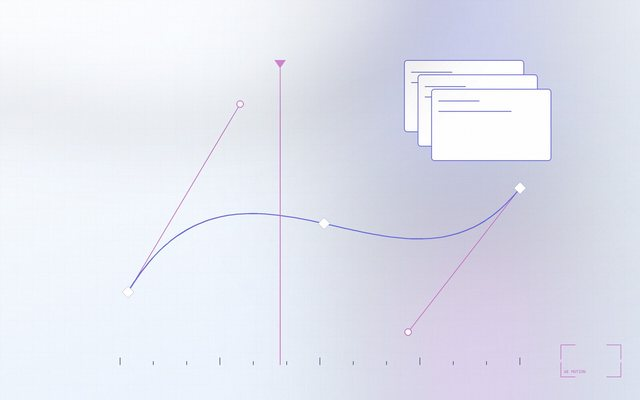
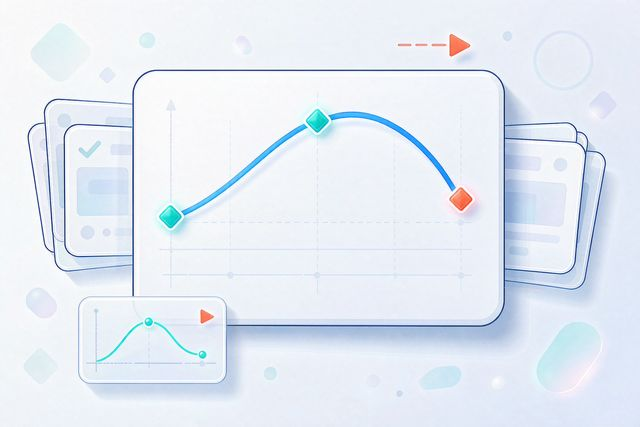
小程序插图 AI 重绘升级：9 张扁平插画去水印入包，映射改为复用分类图

diff --git a/miniprogram/utils/local-media.js b/miniprogram/utils/local-media.js
@@ -1,5 +1,5 @@
 /**
- * 小程序包内插图索引（图片由 tools/sync-miniprogram-media.py 生成）
+ * 小程序包内插图索引（图片由 AI 生成 + tools/mp-media-ai.py 压缩）
  *
  * 为什么需要它：数据库里的 image_url / cover_url 大多是网页端的完整外链
  * （https://guangying-web.app.workbuddy.host/assets/covers/...）。小程序要显示
@@ -36,10 +36,10 @@ const KEYWORDS = [
 ]
 
 const BANNER_IMAGES = [
-  DIR + 'mp-banner-1.jpg',  // 剪辑监视器工作台
-  DIR + 'mp-banner-2.jpg',  // 短视频剪辑
-  DIR + 'mp-banner-3.jpg',  // AI 生成
-  DIR + 'mp-banner-4.jpg'   // 漫剧制作
+  DIR + 'mp-banner-1.jpg',  // 剪辑工作台全景（主视觉）
+  DIR + 'mp-cat-04.jpg',    // 短视频剪辑
+  DIR + 'mp-cat-07.jpg',    // AI 生成
+  DIR + 'mp-cat-08.jpg'     // 漫剧制作
 ]
 
 /** 云端轮播文案 → 同主题插画，避免「摄影师文案配 AI 节点图」这类错配 */
@@ -61,7 +61,7 @@ function categoryImage(no) {
 }
 
 function squareImage(no) {
-  return DIR + 'mp-sq-' + pad(no) + '.jpg'
+  return categoryImage(no)
 }
 
 /** 稳定兜底：同一个服务每次都拿到同一张图，不会乱跳 */

diff --git a/tools/erase-watermarks.py b/tools/erase-watermarks.py
@@ -1,0 +1,111 @@
+# -*- coding: utf-8 -*-
+"""批量提交去水印任务（buddy-image-processing erase），提交后统一轮询状态。
+用法：python tools/erase-watermarks.py
+输入：assets/ai-covers/*.png
+输出：assets/ai-covers/noWM/<原名>.png
+"""
+import glob
+import json
+import os
+import subprocess
+import sys
+import time
+
+SKILL = r"D:\下载\WorkBuddy\resources\app.asar.unpacked\resources\plugins\workbuddy-builtin\skills\buddy-image-processing\scripts\buddy-image-processing.py"
+SRC_DIR = "assets/ai-covers"
+OUT_DIR = os.path.join(SRC_DIR, "noWM")
+PROMPT = "Remove the watermark text in the bottom-right corner"
+
+os.makedirs(OUT_DIR, exist_ok=True)
+
+
+def run(args, timeout=120):
+    p = subprocess.run(args, capture_output=True, text=True, encoding="utf-8", errors="replace", timeout=timeout)
+    return p.returncode, (p.stdout or "") + (p.stderr or "")
+
+
+def submit(f, token):
+    rc, out = run([sys.executable, SKILL, "image-edit", "--operation", "erase",
+                   "--image-file", os.path.abspath(f), "--prompt", PROMPT,
+                   "--no-poll", "--token", token], timeout=180)
+    m = None
+    for line in out.splitlines():
+        line = line.strip()
+        if "task" in line.lower() and ("id" in line.lower() or line.startswith("{")):
+            m = line
+    # 尝试从 JSON 里解析 task_id
+    tid = None
+    i = out.find("{")
+    while i != -1:
+        try:
+            j = json.loads(out[i:out.find("}", i) + 1])
+            tid = j.get("task_id") or j.get("taskId") or (j.get("data") or {}).get("task_id")
+            if tid:
+                break
+        except Exception:
+            pass
+        i = out.find("{", i + 1)
+    print("SUBMIT", os.path.basename(f)[:24], "rc=", rc, "task=", tid)
+    if not tid:
+        print("  RAW:", out[-600:])
+    return tid
+
+
+def status(tid, token):
+    rc, out = run([sys.executable, SKILL, "status", tid, "--token", token], timeout=60)
+    st, path = "unknown", None
+    i = out.find("{")
+    while i != -1:
+        try:
+            j = json.loads(out[i:out.rfind("}", i) + 1])
+            break
+        except Exception:
+            i = out.find("{", i + 1)
+    else:
+        j = {}
+    try:
+        data = j.get("data") or j
+        st = data.get("status") or data.get("state") or "unknown"
+        rf = data.get("result_files") or data.get("resultFiles") or []
+        if rf and isinstance(rf, list):
+            path = rf[0].get("path") or rf[0].get("localPath")
+    except Exception:
+        pass
+    return st, path, out
+
+
+def main():
+    # token 从环境变量取，避免写死在仓库里
+    token = os.environ.get("WB_TEMP_TOKEN") or (sys.argv[1] if len(sys.argv) > 1 else "")
+    if not token:
+        print("need token")
+        sys.exit(2)
+    files = sorted(glob.glob(os.path.join(SRC_DIR, "*.png")))
+    tasks = {}
+    for f in files:
+        tid = submit(f, token)
+        if tid:
+            tasks[tid] = f
+    print("submitted", len(tasks), "of", len(files))
+    deadline = time.time() + 900
+    done = {}
+    while tasks and time.time() < deadline:
+        time.sleep(10)
+        for tid in list(tasks):
+            st, path, raw = status(tid, token)
+            print("STATUS", tid, st, flush=True)
+            if st in ("completed", "success", "succeeded", "done"):
+                done[tasks[tid]] = path
+                del tasks[tid]
+            elif st in ("failed", "error", "cancelled"):
+                print("  FAILED raw:", raw[-400:])
+                del tasks[tid]
+    print("=== RESULT ===")
+    for f, p in done.items():
+        print("DONE", os.path.basename(f)[:40], "->", p)
+    if tasks:
+        print("STILL PENDING:", list(tasks))
+
+
+if __name__ == "__main__":
+    main()

diff --git a/tools/mp-media-ai.py b/tools/mp-media-ai.py
@@ -1,0 +1,68 @@
+# -*- coding: utf-8 -*-
+"""把 AI 生成（已去水印）的插画转换成小程序包内图。
+用法：python tools/mp-media-ai.py
+来源：项目根目录 processed_image_*_<taskid前8位>_1.png
+输出：miniprogram/assets/covers/mp-cat-0N.jpg / mp-banner-1.jpg / mp-hero.jpg
+同时删除不再使用的 mp-sq-*.jpg、mp-banner-2..4.jpg。
+"""
+import glob
+import os
+import sys
+
+from PIL import Image
+
+ROOT = os.path.dirname(os.path.dirname(os.path.abspath(__file__)))
+SRC = ROOT
+OUT = os.path.join(ROOT, "miniprogram", "assets", "covers")
+
+# task id 前 8 位 → 输出文件（16:10 卡片用 3:2 源，aspectFill 自动裁切）
+JOBS = {
+    "2e8a93e6": [("mp-cat-01.jpg", (640, 427))],
+    "37d4affe": [("mp-cat-02.jpg", (640, 427))],
+    "7d2c7166": [("mp-cat-03.jpg", (640, 427))],
+    "fd0ce838": [("mp-cat-04.jpg", (640, 427))],
+    "8ab6d3cf": [("mp-cat-05.jpg", (640, 427))],
+    "1f676fab": [("mp-cat-06.jpg", (640, 427))],
+    "c8f16485": [("mp-cat-07.jpg", (640, 427))],
+    "5f17fd28": [("mp-cat-08.jpg", (640, 427))],
+    "6724dac9": [("mp-banner-1.jpg", (900, 600)), ("mp-hero.jpg", (900, 600))],
+}
+
+DELETE = (["mp-sq-%02d.jpg" % n for n in range(1, 9)]
+          + ["mp-banner-%d.jpg" % n for n in (2, 3, 4)])
+
+
+def find_src(prefix):
+    for f in glob.glob(os.path.join(SRC, "processed_image_*%s*_1.png" % prefix)):
+        return f
+    return None
+
+
+def main():
+    total = 0
+    missing = []
+    for prefix, outs in JOBS.items():
+        src = find_src(prefix)
+        if not src:
+            missing.append(prefix)
+            continue
+        im = Image.open(src).convert("RGB")
+        for name, size in outs:
+            dst = os.path.join(OUT, name)
+            im.resize(size, Image.LANCZOS).save(dst, "JPEG", quality=80, optimize=True, progressive=True)
+            kb = os.path.getsize(dst) / 1024
+            total += kb
+            print("OK", name, size, "%dKB" % kb)
+    for name in DELETE:
+        p = os.path.join(OUT, name)
+        if os.path.exists(p):
+            os.remove(p)
+            print("DEL", name)
+    print("TOTAL %.0fKB" % total)
+    if missing:
+        print("MISSING source for:", missing)
+        sys.exit(1)
+
+
+if __name__ == "__main__":
+    main()

diff --git a/小程序项目档案.md b/小程序项目档案.md
@@ -65,6 +65,9 @@
 | `tools/gui_ctl.py` 桌面控制助手（ctypes 直调 Windows API：窗口枚举/置前/移动/点击/剪贴板/截屏） | ✅ 2026-11-14 新增，用于无人值守导入项目，可复用 |
 | 正式企业 AppID 未配置，测试号只能跑模拟器，无法真机预览/上传 | ⏳ 待办（需在 WorkBuddy 后台开「小程序绑定」或填自有 AppID） |
 | 云端数据需正式 AppID + 后台绑定后才可用 | ⏳ 依赖上一项 |
+| 插图全面升级：9 张 AI 生成扁平插画（浅冷白+青蓝，与网页端同风格），去水印后压成包内图 431KB（旧程序插画 21 张 400KB 已替换，方图复用分类图省体积） | ✅ 2026-11-16 |
+| 素材管线：`assets/ai-covers/`（AI 原图+去水印版，不进 git 核心包）；`tools/mp-media-ai.py`（task id → mp-*.jpg 映射压缩）；`tools/erase-watermarks.py`（buddy-image-processing erase 批量去水印） | ✅ 2026-11-16 |
+| `local-media.js`：`squareImage` 复用分类插画（aspectFill 自动裁方），`BANNER_IMAGES` 改 [工作台/短视频/AI/漫剧] 四张，轮播按文案语义匹配已实测（「同城摄影师直约」→相机+新人剪影） | ✅ 2026-11-16 |
 
 **导入踩坑记录（2026-11-14）**：① 工具「+」是新建模板项目，导入已有工程必须点右上角「导入」；② 未登录时「测试号」报 `Error: 需要重新登录`，但 `cli islogin` 返回 `{"login":true}` 时可用——先查登录态再操作；③ `wx1234567890abcdef` 只是游客占位，CLI/表单均判 `invalid appid`，不能拿来顶替；④ 导入表单必须点「使用 测试号」让工具联网分配真实 AppID；⑤ 项目首次打开会弹「您信任此项目的作者吗？」，需点「信任并运行」才编译；⑥ Git Bash 会把 argv 里的 `\` 转成 `/`，路径要用 `.replace('/', '\\')` 还原；⑦ 目测截图坐标会被图片缩放骗，用像素颜色扫描定位按钮才准。
 
